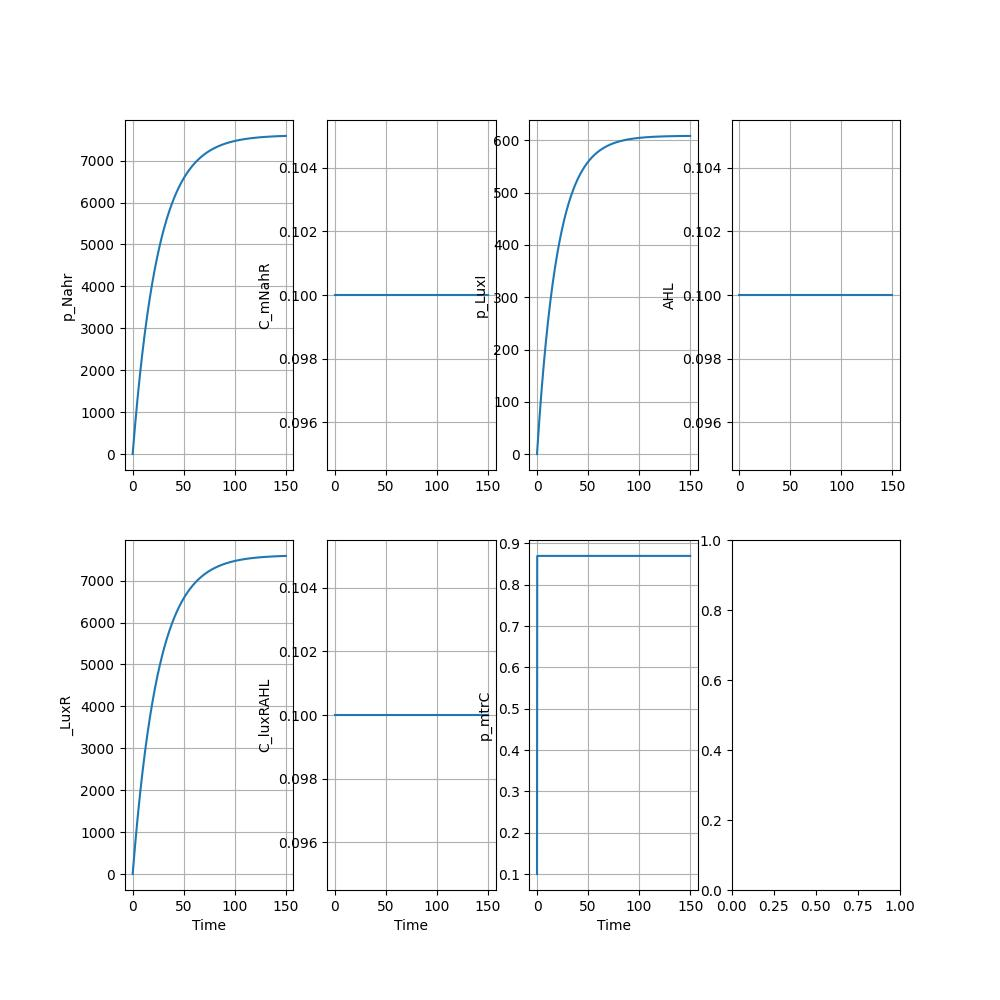
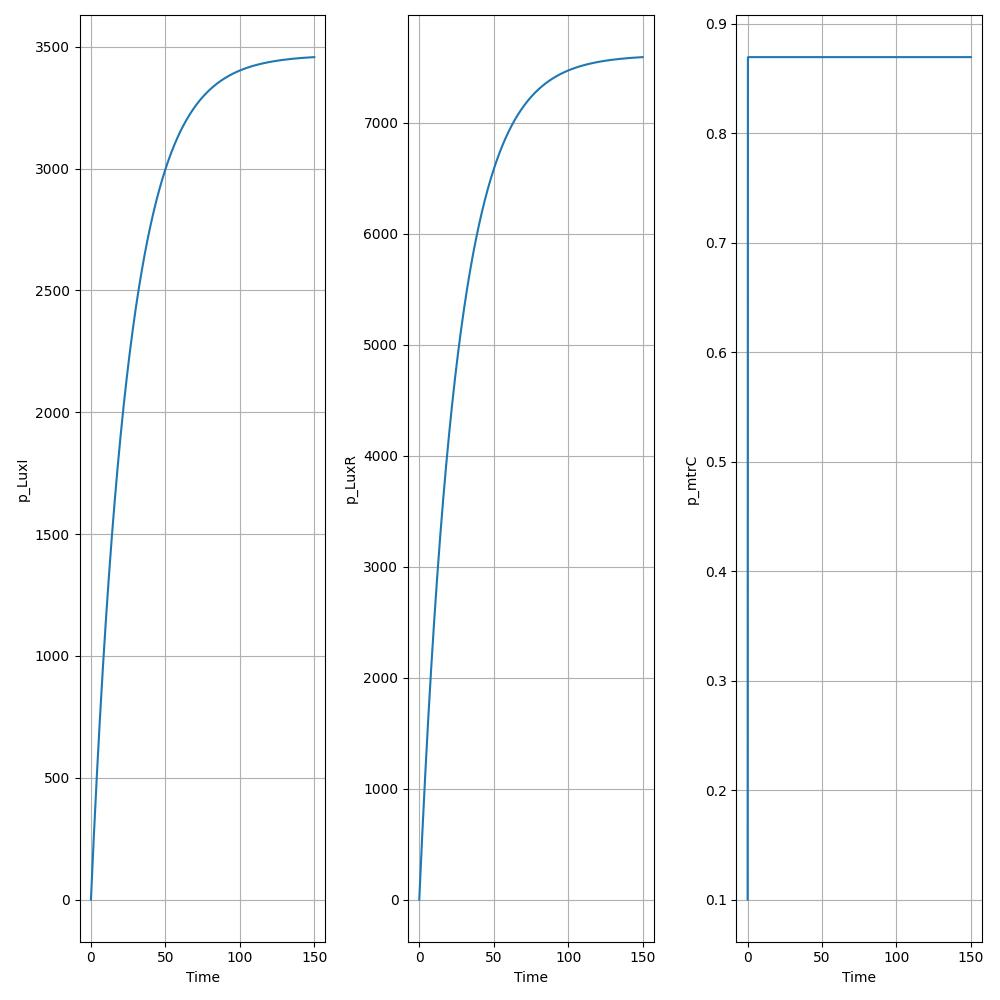
update ODE for measuring microplastic

diff --git a/run/simu_ODE.py b/run/simu_ODE.py
@@ -5,24 +5,24 @@ import pandas as pd
 import os
 
 def model(variables, t, params):
-    p_NahR, C_mNahR, p_LuxI, AHL, p_LuxR, C_LuxRAHL, p_mtrC = variables
-    sigma_pNahR, sigma_rNahR, gamma_rNahR, gamma_pNahR, beta_mNahR, K_mNahR, sigma_pLuxI, gamma_rLuxI, alpha_LuxI, beta_LuxI, K_LuxI, h_LuxI, gamma_pLuxI, eta_pLuxI, beta_LuxRAHL, K_LuxRAKL, sigma_pLuxR, sigma_rLuxR, gamma_rLuxR, gamma_pLuxR, sigma_pmtrC, gamma_rmtrC, alpha_mtrC, beta_mtrC, K_mtrC, h_mtrC, gamma_mtrC = params
+    p_LuxI, p_LuxR, p_mtrC = variables
+    sigma_pNahR, sigma_rNahR, gamma_rNahR, gamma_pNahR, m, K, K1, K2, gamma_Ec, gamma_out, gamma_sh, sigma_pLuxI, gamma_rLuxI, alpha_LuxI, beta_LuxI, K_LuxI, h_LuxI, gamma_pLuxI, beta_LuxRAHL, K_LuxRAHL, sigma_pLuxR, sigma_rLuxR, gamma_rLuxR, gamma_pLuxR, sigma_pmtrC, gamma_rmtrC, alpha_mtrC, beta_mtrC, K_mtrC, h_mtrC, gamma_mtrC = params
     
-    #r_NahR = sigma_rNahR/gamma_rNahR
-    #r_LuxI = (1/gamma_rLuxI)*(alpha_LuxI+(beta_LuxI*C_mNahR/(K_LuxI+C_mNahR**h_LuxI)))
-    #r_luxr = sigma_rLuxR/gamma_rLuxR
-    #r_mtrC = (1/gamma_rmtrC)*(alpha_mtrC+(beta_mtrC*C_LuxRAHL/(h_mtrC + C_LuxRAHL**h_mtrC)))
+    p_NahR = sigma_pNahR*sigma_rNahR/(gamma_rNahR*gamma_pNahR)
+    microNahR = p_NahR*m/(K+m)
+    AHL_sh = sigma_pLuxI*K1*K2/(gamma_Ec + gamma_out*K1 + gamma_sh*K1*K2)
+    luxRAHL = beta_LuxRAHL*AHL_sh/(K_LuxRAHL+AHL_sh)
 
-    dp_Nahrdt = (sigma_pNahR*sigma_rNahR/gamma_rNahR) - gamma_pNahR*p_NahR
-    dC_mNahRdt = 0
-    dmdt = 0
-    dp_LuxIdt = sigma_pLuxI/gamma_rLuxI*(alpha_LuxI+ (beta_LuxI*C_mNahR/(K_LuxI+C_LuxRAHL**h_LuxI))) - gamma_pLuxI*p_LuxI - eta_pLuxI*p_LuxI
-    dAHLdt = 0
-    dp_LuxRdt = sigma_pLuxR*(sigma_rLuxR/gamma_rLuxR) - gamma_pLuxR*p_LuxR
-    dC_luxRAHLdt = 0
-    dp_mtrCdt = (sigma_pmtrC/gamma_rmtrC)*(alpha_mtrC + (beta_mtrC*C_LuxRAHL/(K_mtrC + C_LuxRAHL**h_mtrC))) - gamma_mtrC*p_mtrC
+    dp_LuxIdt = sigma_pLuxI/gamma_rLuxI*(alpha_LuxI + beta_LuxI/(1+ (microNahR/K_LuxI)**-h_LuxI)) - gamma_pLuxI*p_LuxI
+    dp_LuxRdt =  sigma_pLuxR*sigma_rLuxR/gamma_rLuxR - gamma_pLuxR*p_LuxR
+    dp_mtrCdt = sigma_pmtrC/gamma_rmtrC * (alpha_mtrC + beta_mtrC/(1+(luxRAHL/K_mtrC)**(-h_mtrC))) - gamma_mtrC*p_mtrC
 
-    dXdt = [dp_Nahrdt, dC_mNahRdt, dp_LuxIdt, dAHLdt, dp_LuxRdt, dC_luxRAHLdt, dp_mtrCdt]
+    #dp_Nahrdt = (sigma_pNahR*sigma_rNahR/gamma_rNahR) - gamma_pNahR*p_NahR
+    #dp_LuxIdt = sigma_pLuxI/gamma_rLuxI*(alpha_LuxI+ (beta_LuxI*C_mNahR/(K_LuxI+C_LuxRAHL**h_LuxI))) - gamma_pLuxI*p_LuxI - eta_pLuxI*p_LuxI
+    #dp_LuxRdt = sigma_pLuxR*(sigma_rLuxR/gamma_rLuxR) - gamma_pLuxR*p_LuxR
+    #dp_mtrCdt = (sigma_pmtrC/gamma_rmtrC)*(alpha_mtrC + (beta_mtrC*C_LuxRAHL/(K_mtrC + C_LuxRAHL**h_mtrC))) - gamma_mtrC*p_mtrC
+
+    dXdt = [dp_LuxIdt, dp_LuxRdt, dp_mtrCdt]
 
     return dXdt
 
@@ -38,29 +38,21 @@ Tmax = 150
 nums = Tmax*5
 vecTime = np.linspace(0, Tmax, nums)
 
-params_names = ['p_Nahr', 'C_mNahR', 'p_LuxI', 'AHL', '_LuxR', 'C_luxRAHL', 'p_mtrC']
-cond_init = [0.1]*len(params_names)
+variable_names = ['p_LuxI', 'p_LuxR', 'p_mtrC']
+cond_init = [0.1]*len(variable_names)
 
 simu = odeint(model, cond_init, vecTime, args=(params_vals,))
 
-fig, axes = plt.subplots(2,4, figsize=(10,10))
+fig, axes = plt.subplots(1,3, figsize=(10,10))
 
-for idx, name in enumerate(params_names):
-    if idx < 4:
-        axes[0,idx].plot(vecTime, simu[:,idx])
-        axes[0,idx].grid()
-        axes[0,idx].set_ylabel(name)
-    else:
-        axes[1,idx-4].plot(vecTime, simu[:,idx])
-        axes[1,idx-4].grid()
-        axes[1,idx-4].set_ylabel(name)
-        axes[1,idx-4].set_xlabel('Time')
-
-    axes[1,3].get_xaxis().set_visible(False)
-    axes[1,3].get_yaxis().set_visible(False) 
-    axes[1,3].axis('off')
+for idx, name in enumerate(variable_names):
+    axes[idx].plot(vecTime, simu[:,idx])
+    axes[idx].grid()
+    axes[idx].set_ylabel(name)
+    axes[idx].set_xlabel('Time')
 
 plt.tight_layout()
 plt.savefig(os.path.join(main_path, results_path, 'simu_ODE.jpeg'))
 plt.close()
+
 
